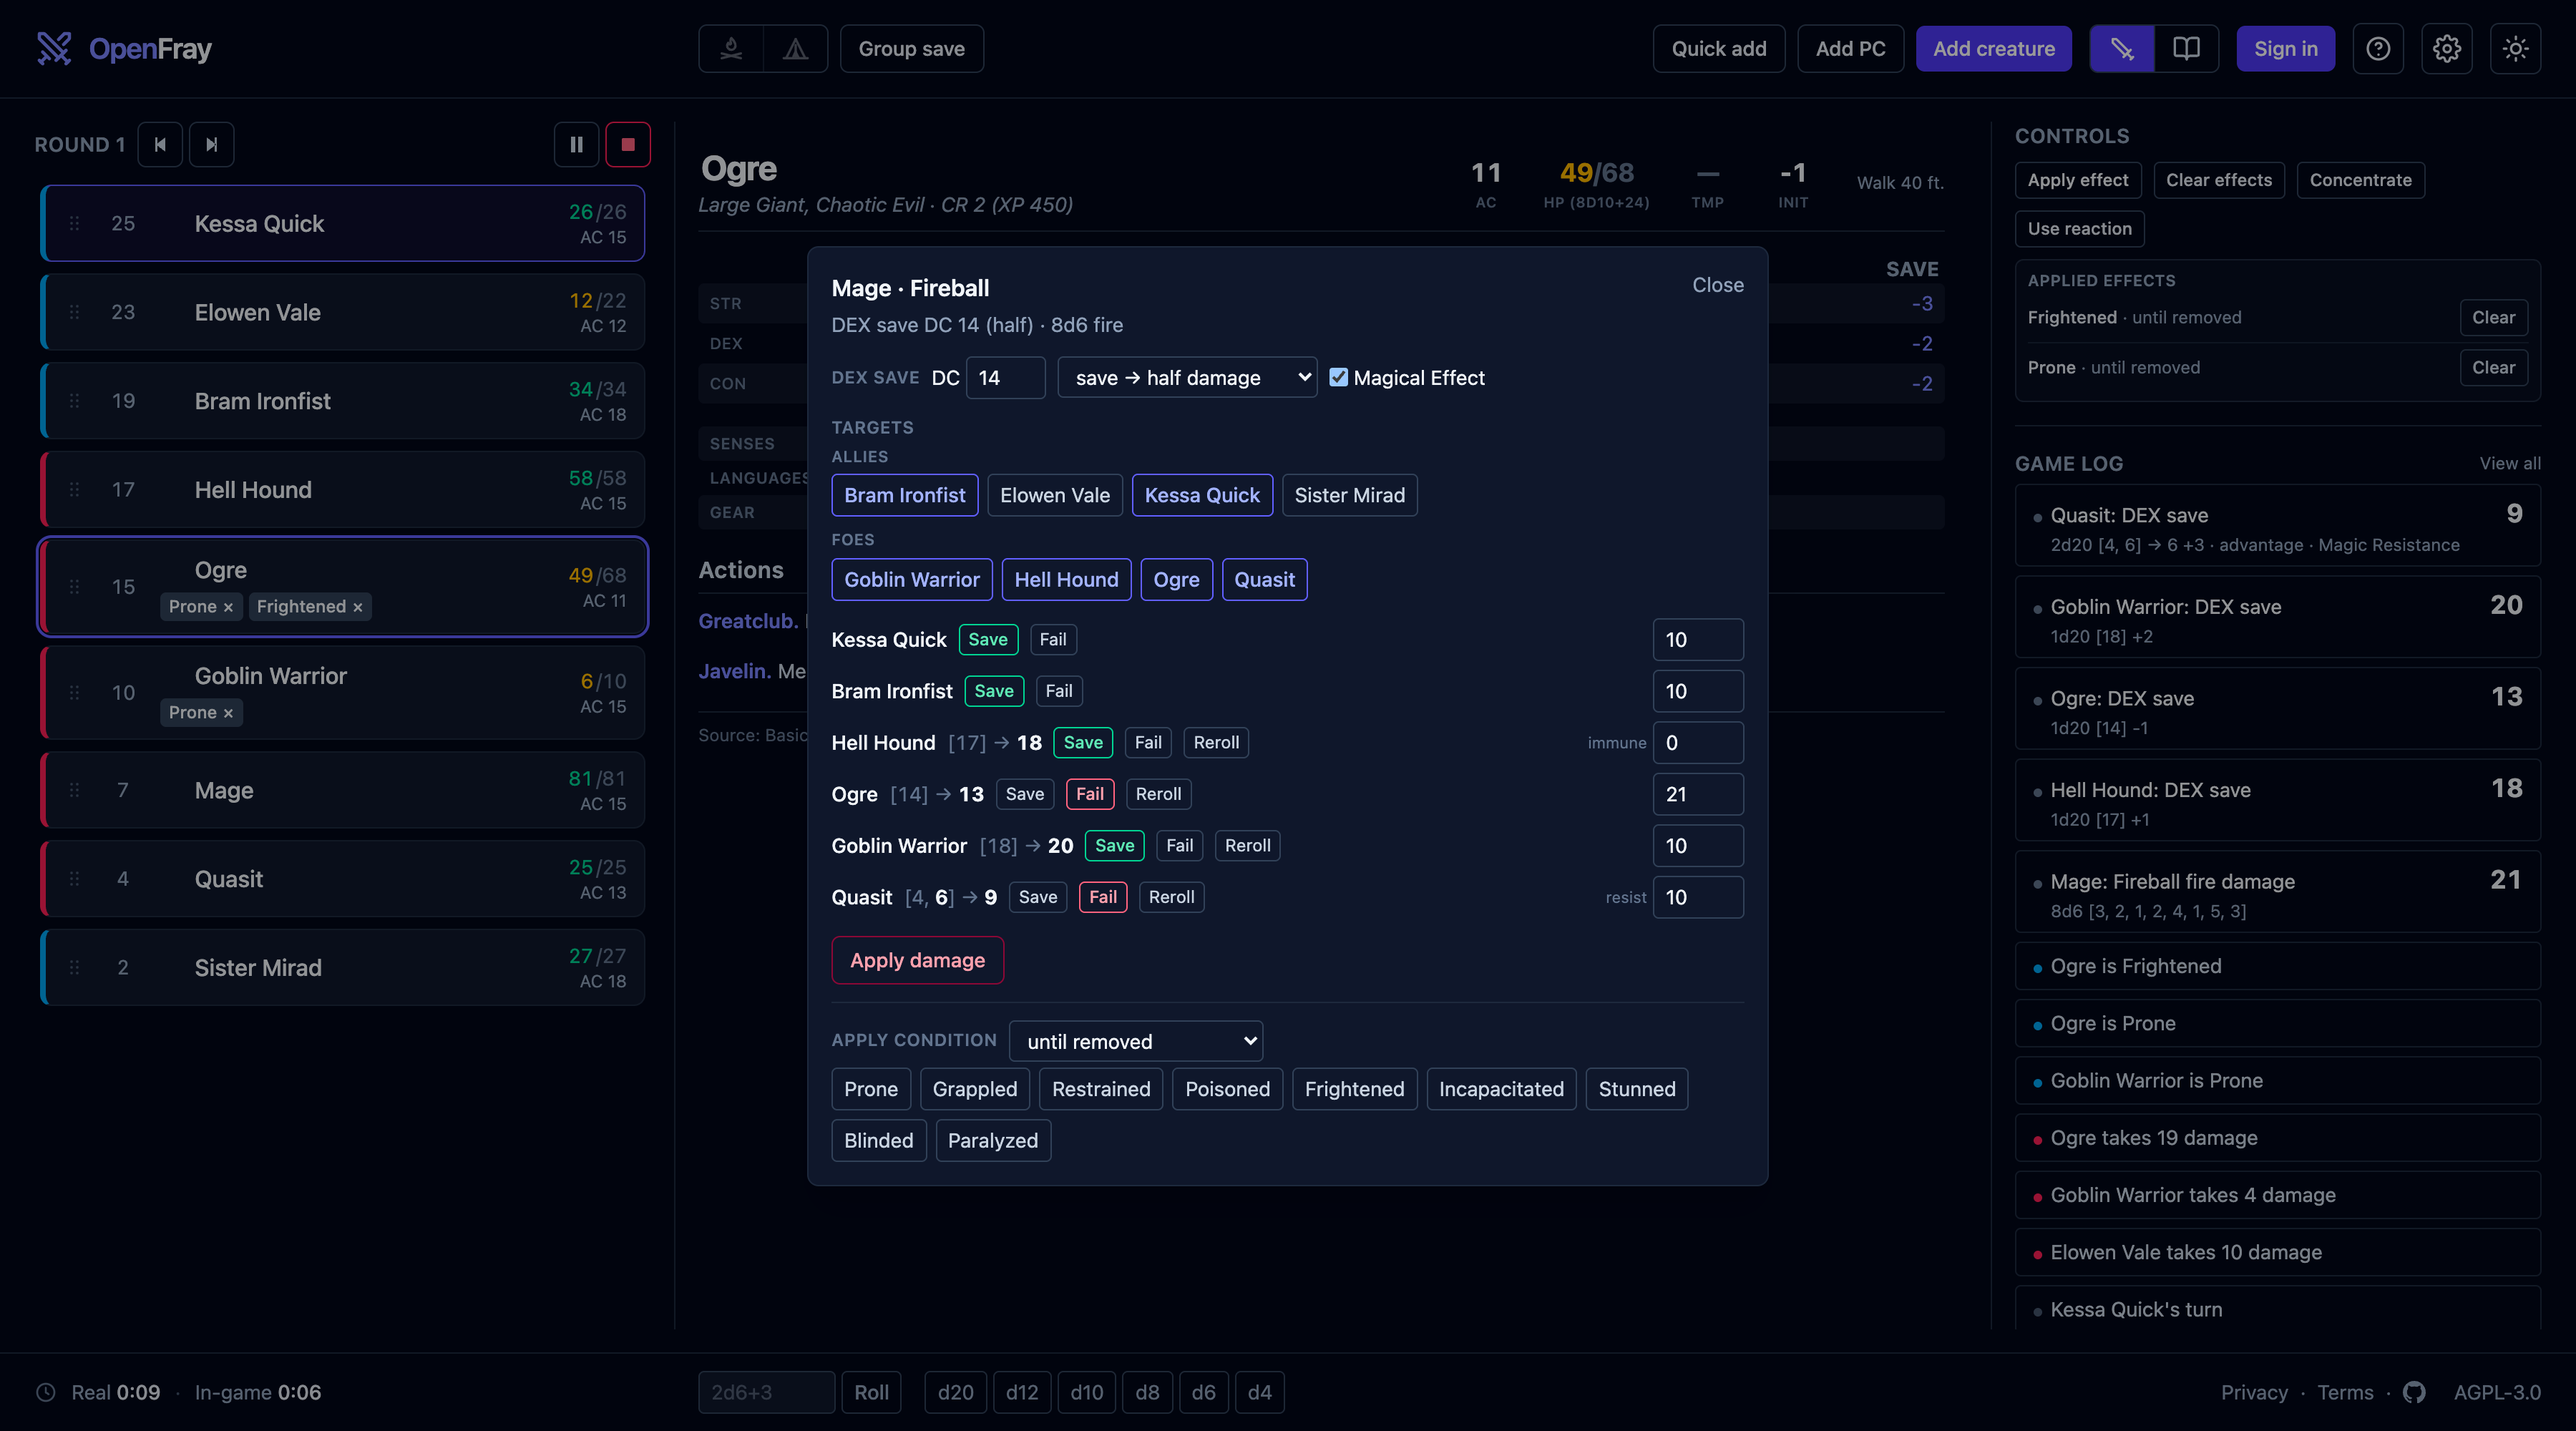
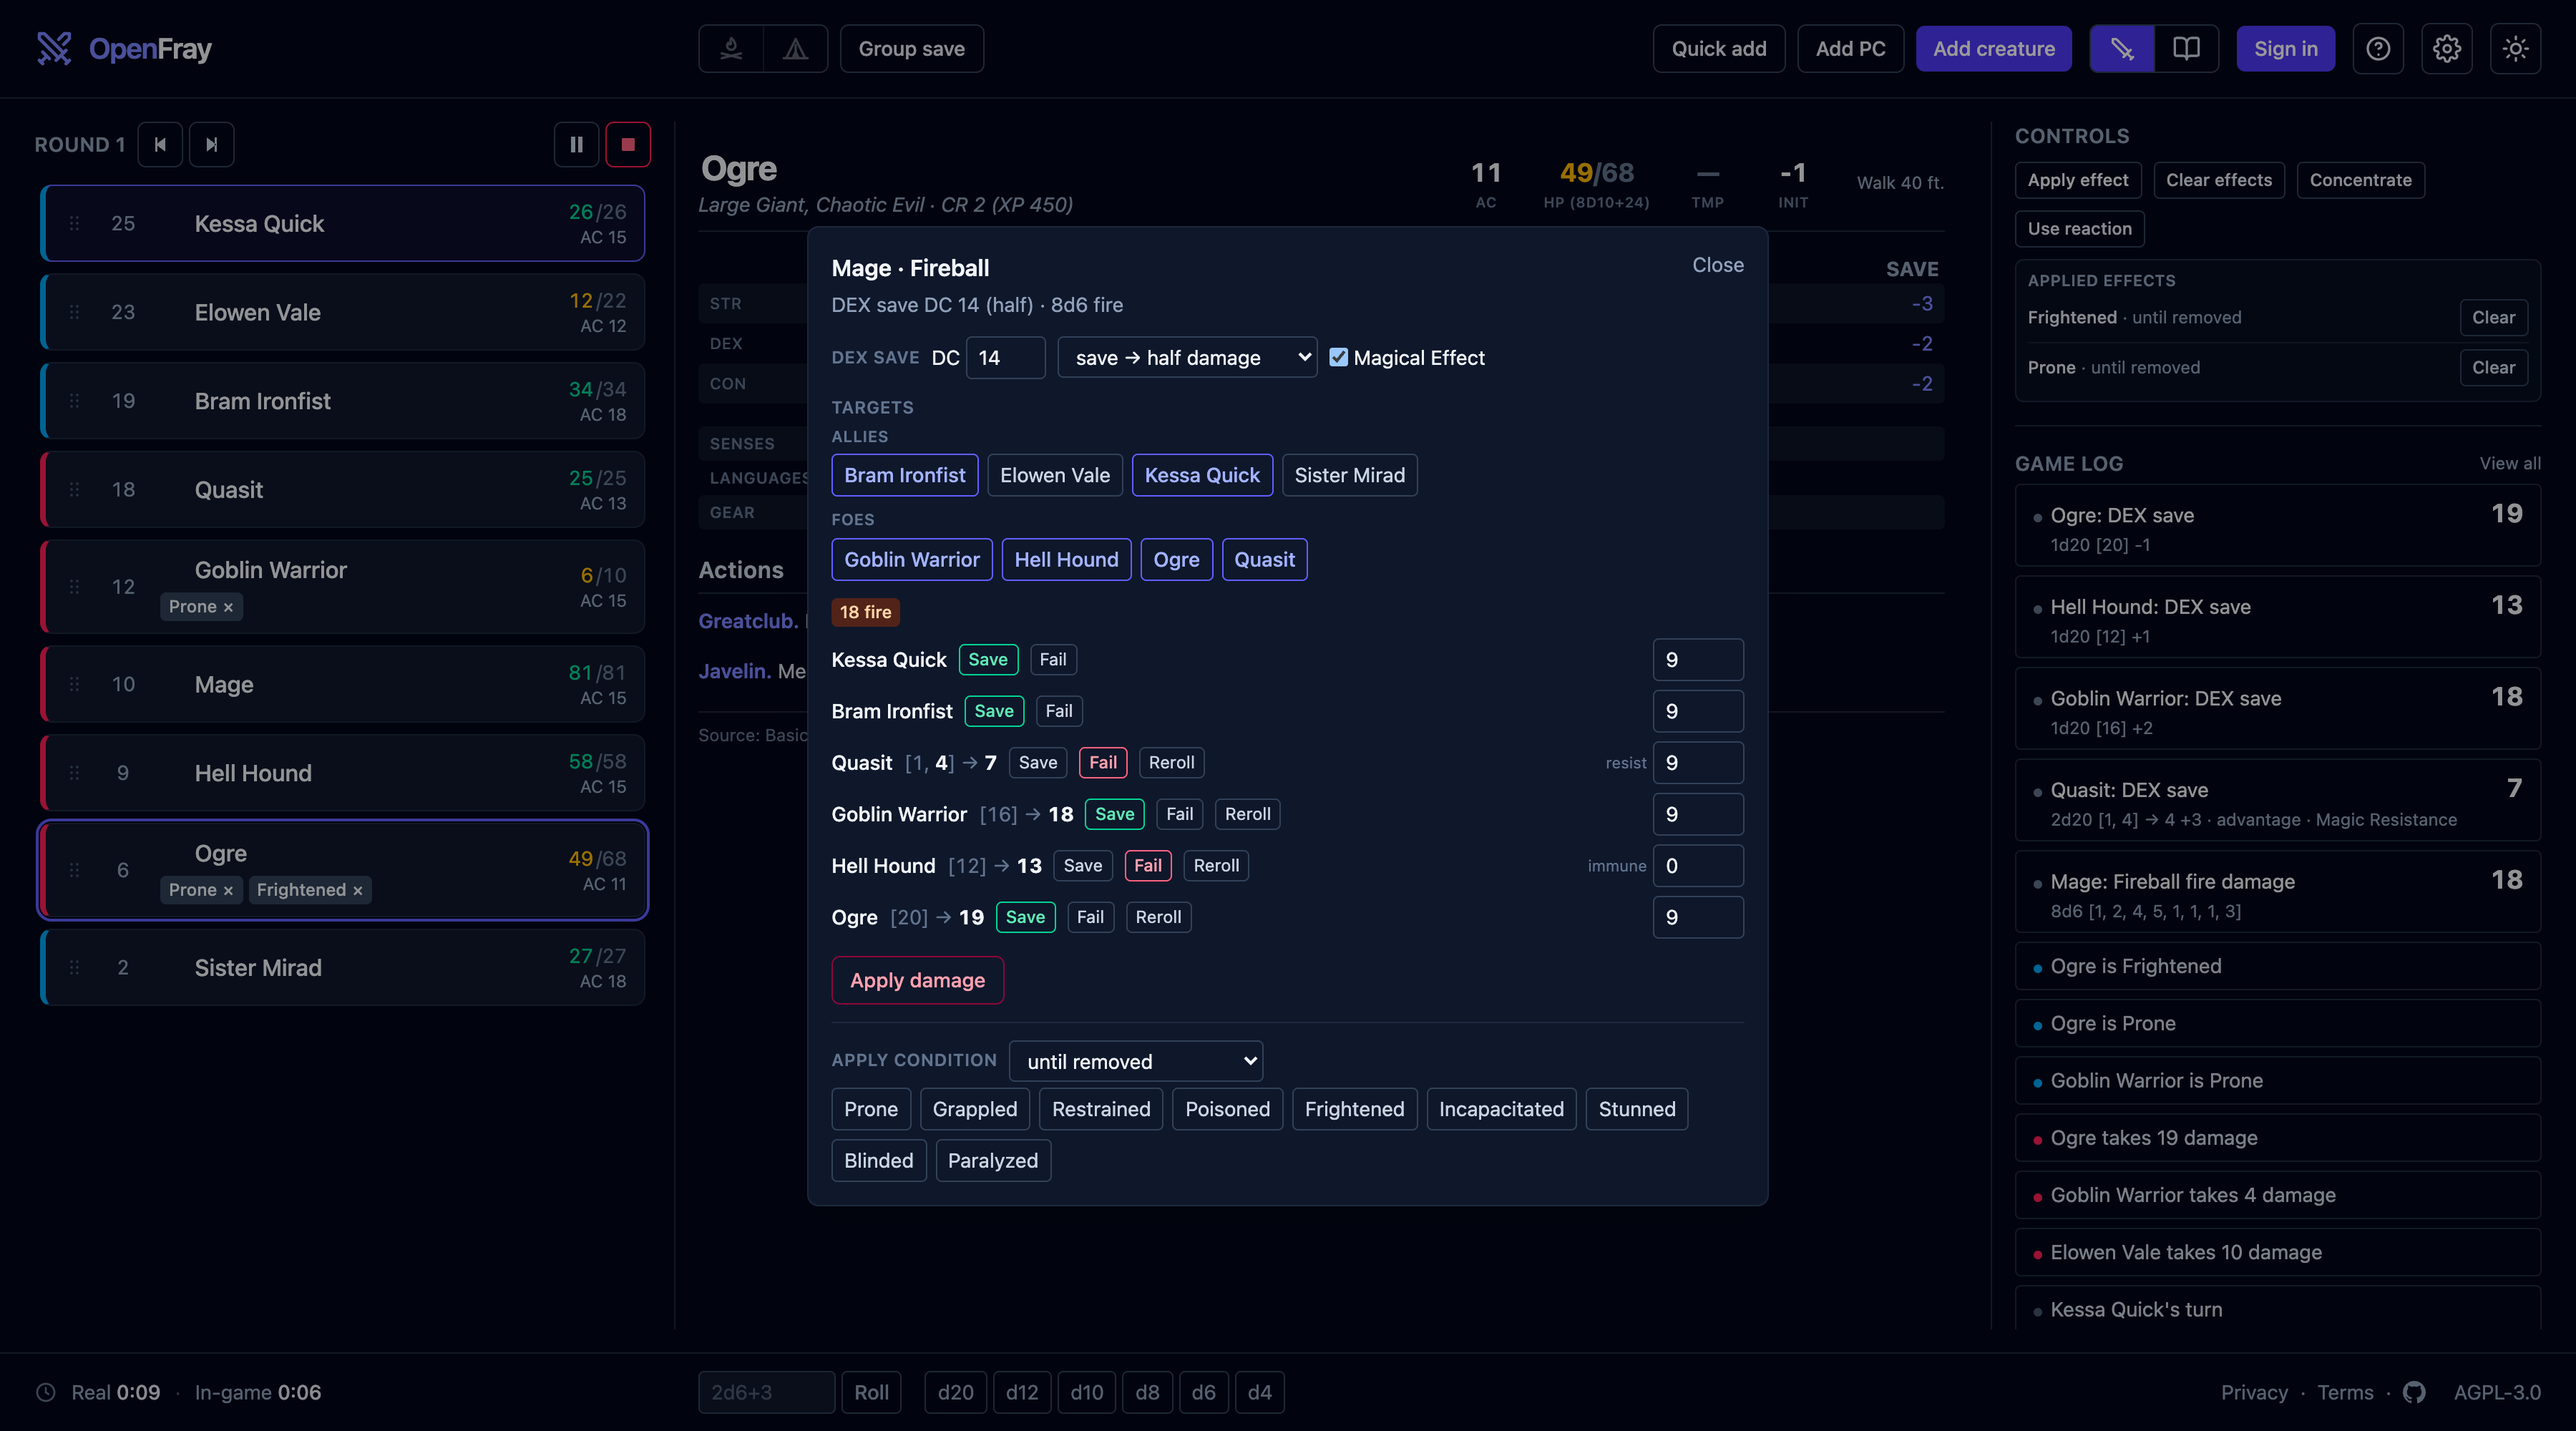
App: show a group save what it rolled, by damage type
An attack shows its damage as a pill per type — "14 slashing", "7 acid" —
so the GM can see what the dice gave before anything is applied. A save
showed nothing: a cast Fireball put a number in each row and never said
those numbers were 27 fire split three ways, and a group save whose field
still read "3d8" never showed what 3d8 came to at all.

The same pills sit above the rows now, carrying the roll every row's
share is taken from. They're the pre-defence numbers on purpose: each row
already shows its own total with its resist or immune tag beside it, so
the pair reads as the roll and then what it did to that creature.

diff --git a/src/components/ActionResolver.tsx b/src/components/ActionResolver.tsx
@@ -728,6 +728,16 @@ export function SaveResolver({
     return saveDamageFor(target, genericBase, result, onSave, evasion, damageType || undefined)
   }
 
+  // What was rolled, by type, before any target's defenses — the same pills the attack
+  // modal shows. Each row's own number carries its defenses; this is the shared roll
+  // those numbers came from.
+  const rolled: { type: DamageType; amount: number }[] =
+    area.length > 0
+      ? area.map((c) => ({ type: c.type, amount: c.amount }))
+      : damageType && genericBase > 0
+        ? [{ type: damageType, amount: genericBase }]
+        : []
+
   /** Resist/immune/vuln tags for a row — one per typed damage component in play. */
   const defenseLabels = (target: Combatant): string[] => {
     const components = area.length > 0 ? area : damageType ? [{ type: damageType }] : []
@@ -1008,6 +1018,13 @@ export function SaveResolver({
         </Button>
       ) : (
         <>
+          {rolled.length > 0 && (
+            <div className="mb-2 flex flex-wrap gap-1.5">
+              {rolled.map((d, i) => (
+                <DamagePill key={i} type={d.type} amount={d.amount} />
+              ))}
+            </div>
+          )}
           <ul className="space-y-1.5">
             {selectedTargets.map((c) => {
               const row = rows[c.combatantId]

diff --git a/tests/components/ActionResolver.test.tsx b/tests/components/ActionResolver.test.tsx
@@ -152,6 +152,28 @@ describe('ActionResolver — save actions', () => {
     expect((screen.getByLabelText('On save') as HTMLSelectElement).value).toBe('half')
   })
 
+  it('shows what was rolled, by damage type, like the attack modal does', () => {
+    render(
+      <ActionResolver
+        attacker={monster()}
+        action={fireBreath}
+        combatants={[monster(), monster({ combatantId: 't', label: 'Ogre' })]}
+        dispatch={vi.fn()}
+        onRoll={vi.fn()}
+        onClose={() => {}}
+      />,
+    )
+    fireEvent.click(screen.getByRole('button', { name: 'Ogre' }))
+    fireEvent.click(screen.getByRole('button', { name: 'Roll saves' }))
+
+    // 2d6 fire: the pill carries the roll every target's share is split from.
+    const pill = screen.getByText(/^\d+ fire$/)
+    expect(pill).toBeInTheDocument()
+    const rolled = Number(pill.textContent!.split(' ')[0])
+    expect(rolled).toBeGreaterThanOrEqual(2)
+    expect(rolled).toBeLessThanOrEqual(12)
+  })
+
   it("applies a save spell's board effect to the targets that fail", () => {
     const dispatch = vi.fn()
     const bane: Spell = {

diff --git a/tests/components/MassSavePanel.test.tsx b/tests/components/MassSavePanel.test.tsx
@@ -125,6 +125,22 @@ describe('MassSavePanel', () => {
     expect(screen.getByLabelText('Damage to a')).toHaveValue('15')
   })
 
+  it('shows what the typed damage formula rolled, under the type the GM picked', () => {
+    render(<MassSavePanel combatants={[monster('a')]} dispatch={vi.fn()} onRoll={vi.fn()} />)
+
+    fireEvent.click(screen.getByText('Group save'))
+    fireEvent.click(screen.getByRole('button', { name: 'a' }))
+    fireEvent.change(screen.getByLabelText('Damage'), { target: { value: '2d6' } })
+    fireEvent.change(screen.getByLabelText('Damage type'), { target: { value: 'fire' } })
+    fireEvent.click(screen.getByText('Roll saves'))
+
+    // The field still reads "2d6"; the pill is the only place the total shows.
+    const pill = screen.getByText(/^\d+ fire$/)
+    const rolled = Number(pill.textContent!.split(' ')[0])
+    expect(rolled).toBeGreaterThanOrEqual(2)
+    expect(rolled).toBeLessThanOrEqual(12)
+  })
+
   it('rerolls one creature’s save without touching the others', () => {
     const onRoll = vi.fn()
     render(
